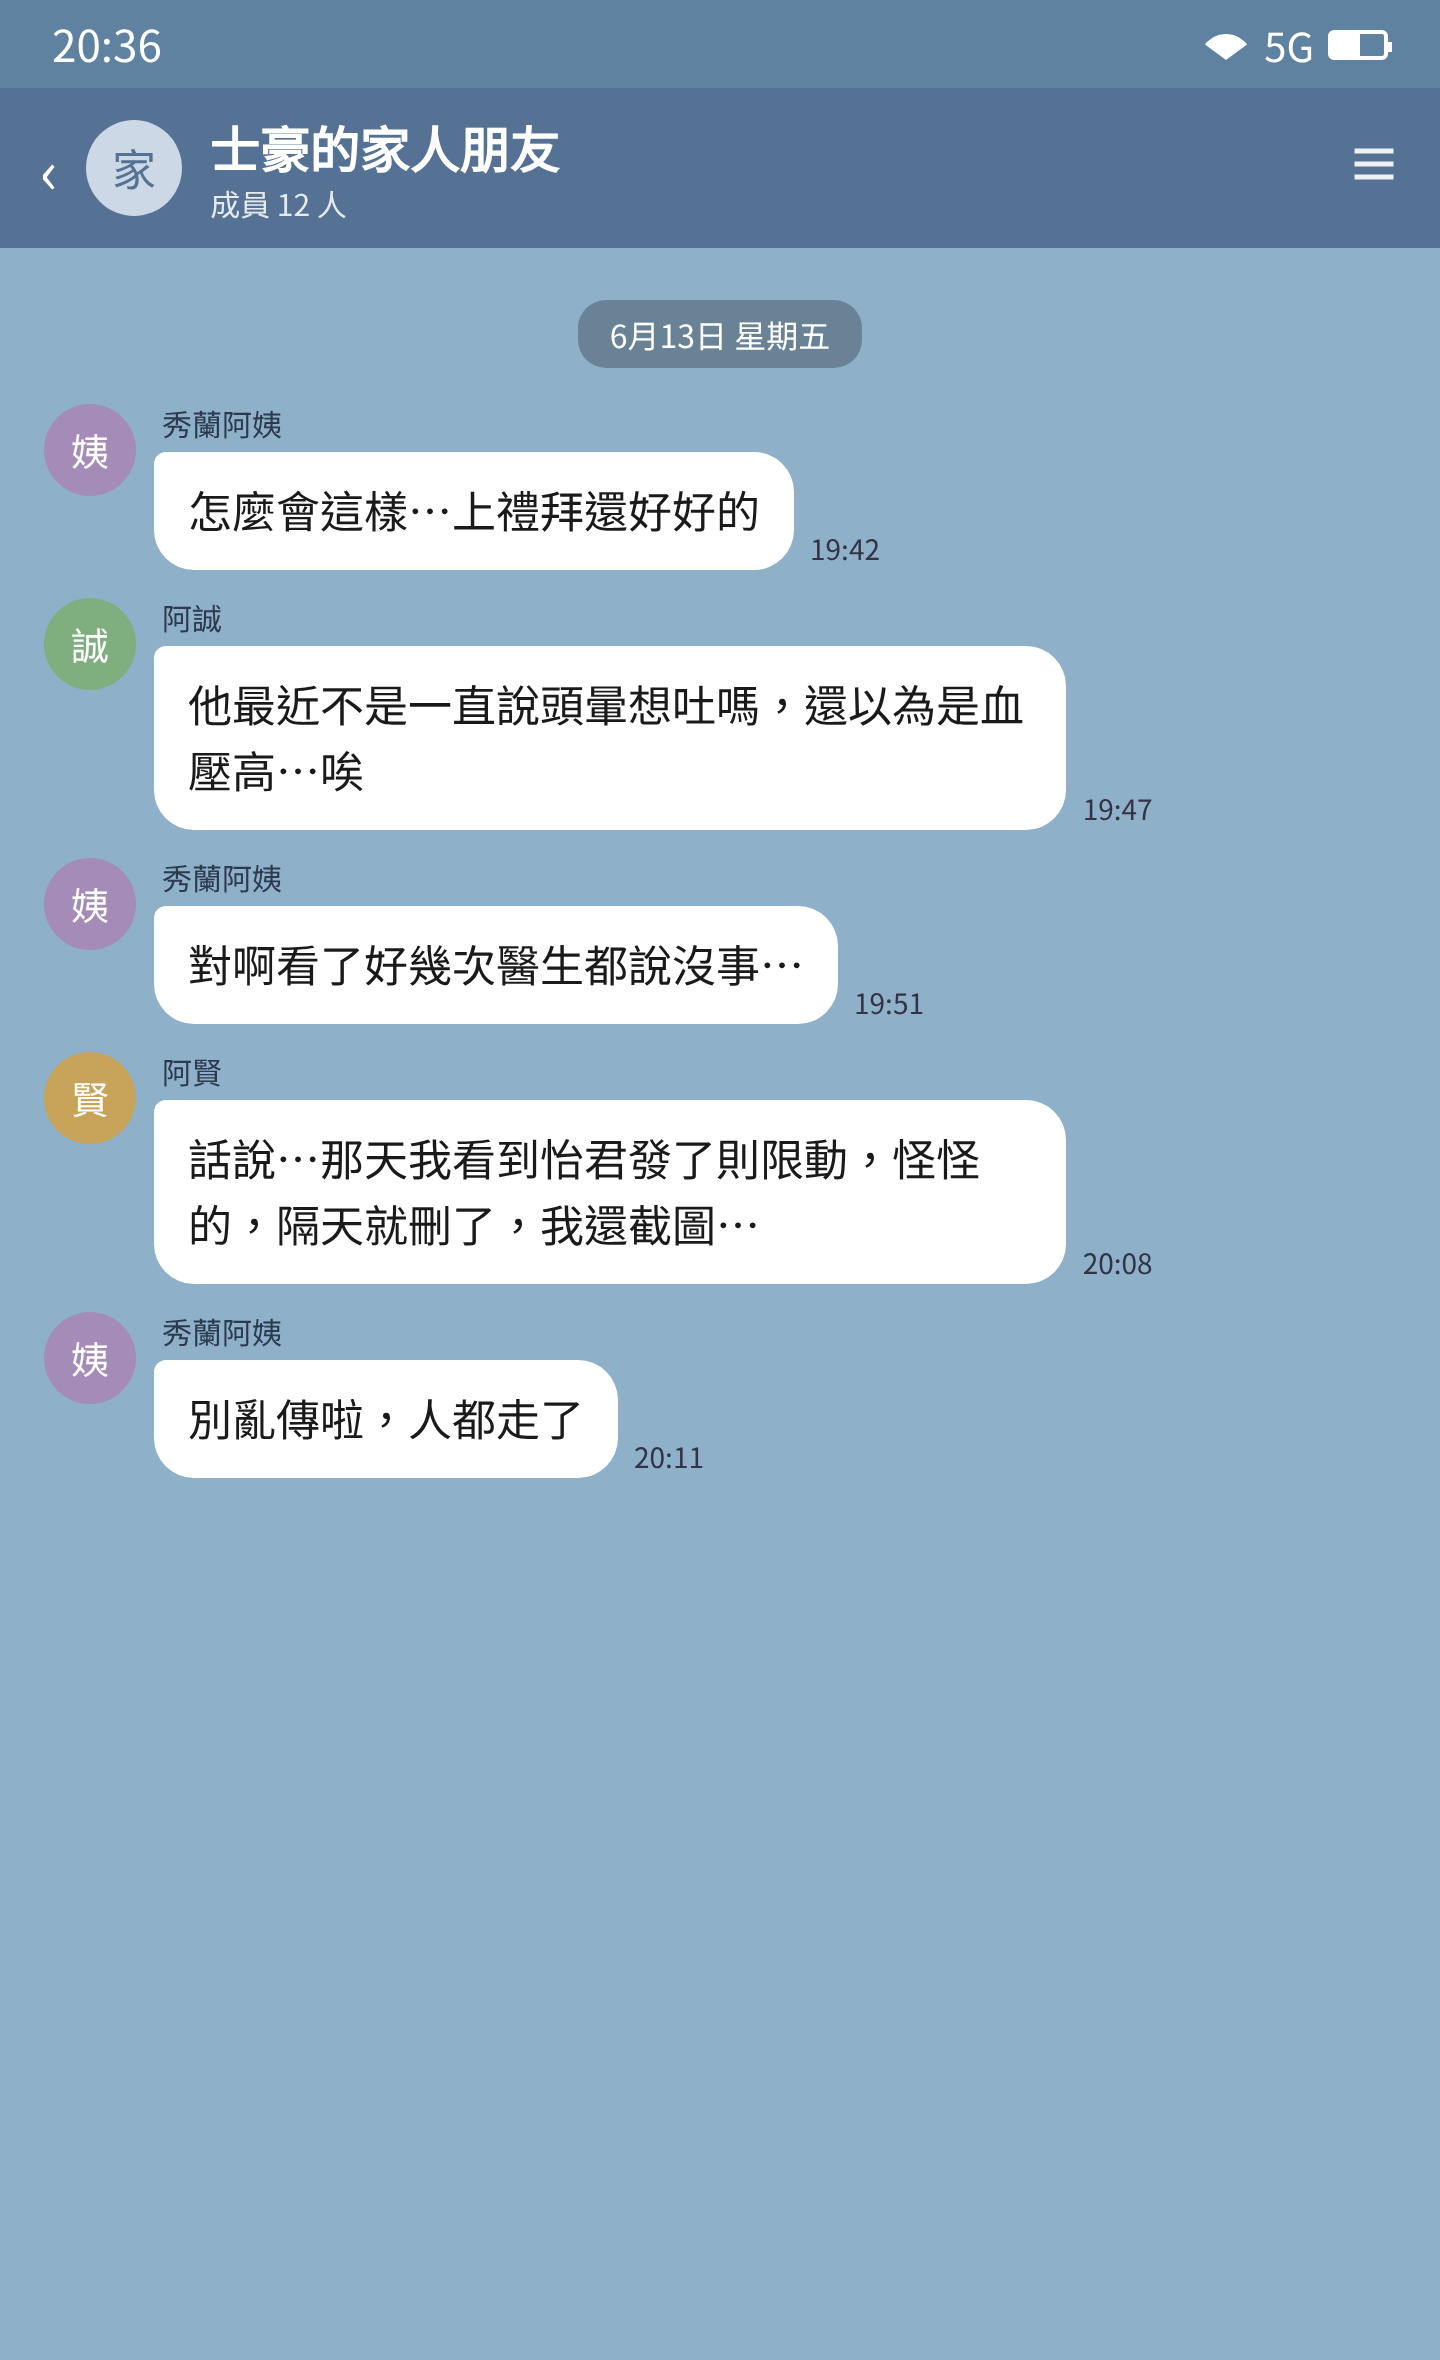
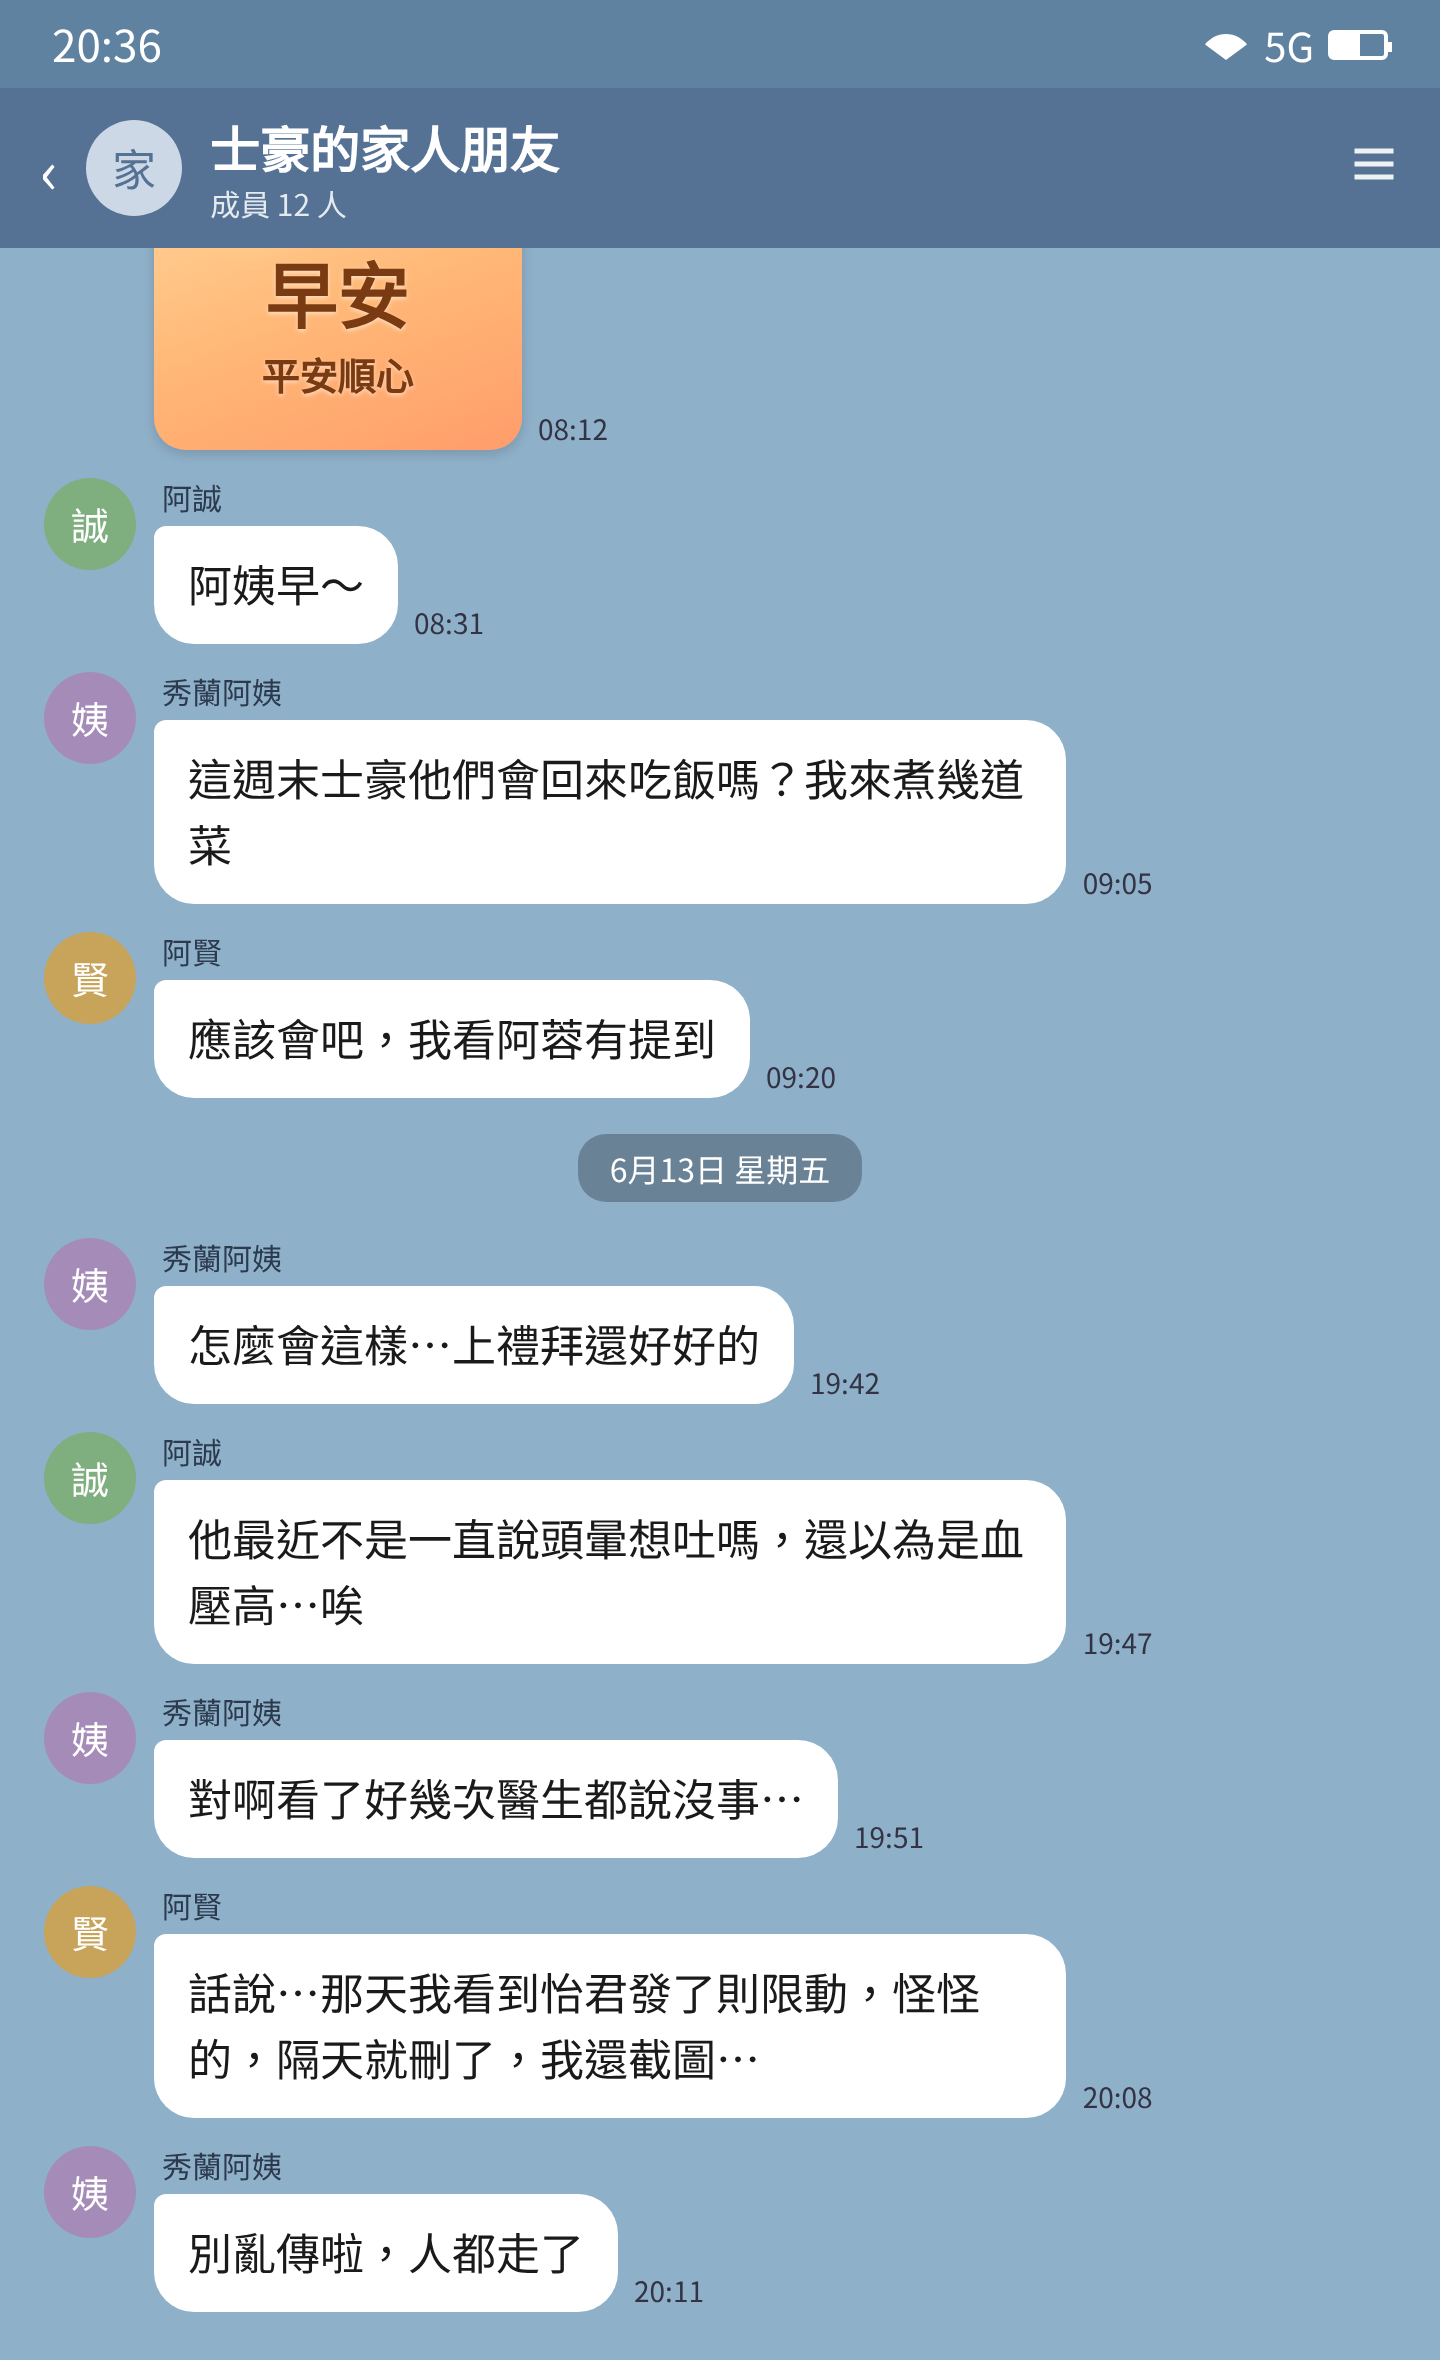
puzzle(CASE-12): p1-family-line補先前日常對話+早安貼圖(群組像長期在聊)
照realism邏輯:訊息靠底對齊(舊訊息滑出頂端)+上面補6/8日常(阿姨早安長輩貼圖+週末回家吃飯的閒聊+提到阿蓉),對照6/13命案討論。不再像從沒對話過。已上圖床+清快取+cp甜甜。

diff --git a/tools/puzzle-quest/posters/p1-family-line.html b/tools/puzzle-quest/posters/p1-family-line.html
@@ -11,8 +11,13 @@
   .head .name{font-size:25px;font-weight:700;flex:1;}
   .head .name small{display:block;font-size:15px;font-weight:400;opacity:.85;}
   .head .ic{font-size:26px;opacity:.9;}
-  .msgs{flex:1;padding:22px 22px 30px;display:flex;flex-direction:column;gap:14px;overflow:hidden;}
+  .msgs{flex:1;padding:22px 22px 24px;display:flex;flex-direction:column;justify-content:flex-end;gap:14px;overflow:hidden;}
   .day{align-self:center;background:rgba(0,0,0,.26);color:#fff;font-size:16px;padding:5px 16px;border-radius:14px;margin:4px 0;}
+  .sticker{width:184px;height:184px;border-radius:16px;background:linear-gradient(160deg,#ffe1a8,#ffb877 58%,#ff9d6a);position:relative;overflow:hidden;box-shadow:0 2px 6px rgba(0,0,0,.15);}
+  .sticker .sun{position:absolute;left:24px;top:22px;width:52px;height:52px;border-radius:50%;background:#fff6cc;box-shadow:0 0 0 6px rgba(255,246,204,.45),0 0 22px rgba(255,232,150,.95);}
+  .sticker .fl{position:absolute;right:20px;top:26px;width:12px;height:12px;border-radius:50%;background:#ff7f7f;box-shadow:22px 8px #ffd166,-6px 26px #a7d489,16px 34px #ff7f7f;}
+  .sticker .st{position:absolute;left:0;right:0;bottom:24px;text-align:center;color:#7a3b12;font-weight:900;font-size:36px;text-shadow:0 1px 2px rgba(255,255,255,.55);}
+  .sticker .st small{display:block;font-size:19px;font-weight:700;margin-top:2px;}
   .row{display:flex;align-items:flex-start;gap:9px;max-width:82%;}
   .av2{width:46px;height:46px;border-radius:50%;flex:none;display:flex;align-items:center;justify-content:center;font-size:19px;color:#fff;}
   .a1{background:#a58bb8;}.a2{background:#7fae7f;}.a3{background:#c8a35a;}
@@ -32,6 +37,24 @@
       <div class="ic"><svg width="26" height="26" viewBox="0 0 24 24" stroke="#fff" stroke-width="2.2" fill="none"><path d="M3 6h18M3 12h18M3 18h18"/></svg></div>
     </div>
     <div class="msgs">
+      <div class="day">6月8日 星期日</div>
+
+      <div class="row"><div class="av2 a1">姨</div><div class="col"><div class="who">秀蘭阿姨</div>
+        <div class="line"><div class="sticker"><div class="sun"></div><div class="fl"></div><div class="st">早安<small>平安順心</small></div></div><div class="time">08:12</div></div>
+      </div></div>
+
+      <div class="row"><div class="av2 a2">誠</div><div class="col"><div class="who">阿誠</div>
+        <div class="line"><div class="bubble">阿姨早～</div><div class="time">08:31</div></div>
+      </div></div>
+
+      <div class="row"><div class="av2 a1">姨</div><div class="col"><div class="who">秀蘭阿姨</div>
+        <div class="line"><div class="bubble">這週末士豪他們會回來吃飯嗎？我來煮幾道菜</div><div class="time">09:05</div></div>
+      </div></div>
+
+      <div class="row"><div class="av2 a3">賢</div><div class="col"><div class="who">阿賢</div>
+        <div class="line"><div class="bubble">應該會吧，我看阿蓉有提到</div><div class="time">09:20</div></div>
+      </div></div>
+
       <div class="day">6月13日 星期五</div>
 
       <div class="row"><div class="av2 a1">姨</div><div class="col"><div class="who">秀蘭阿姨</div>
